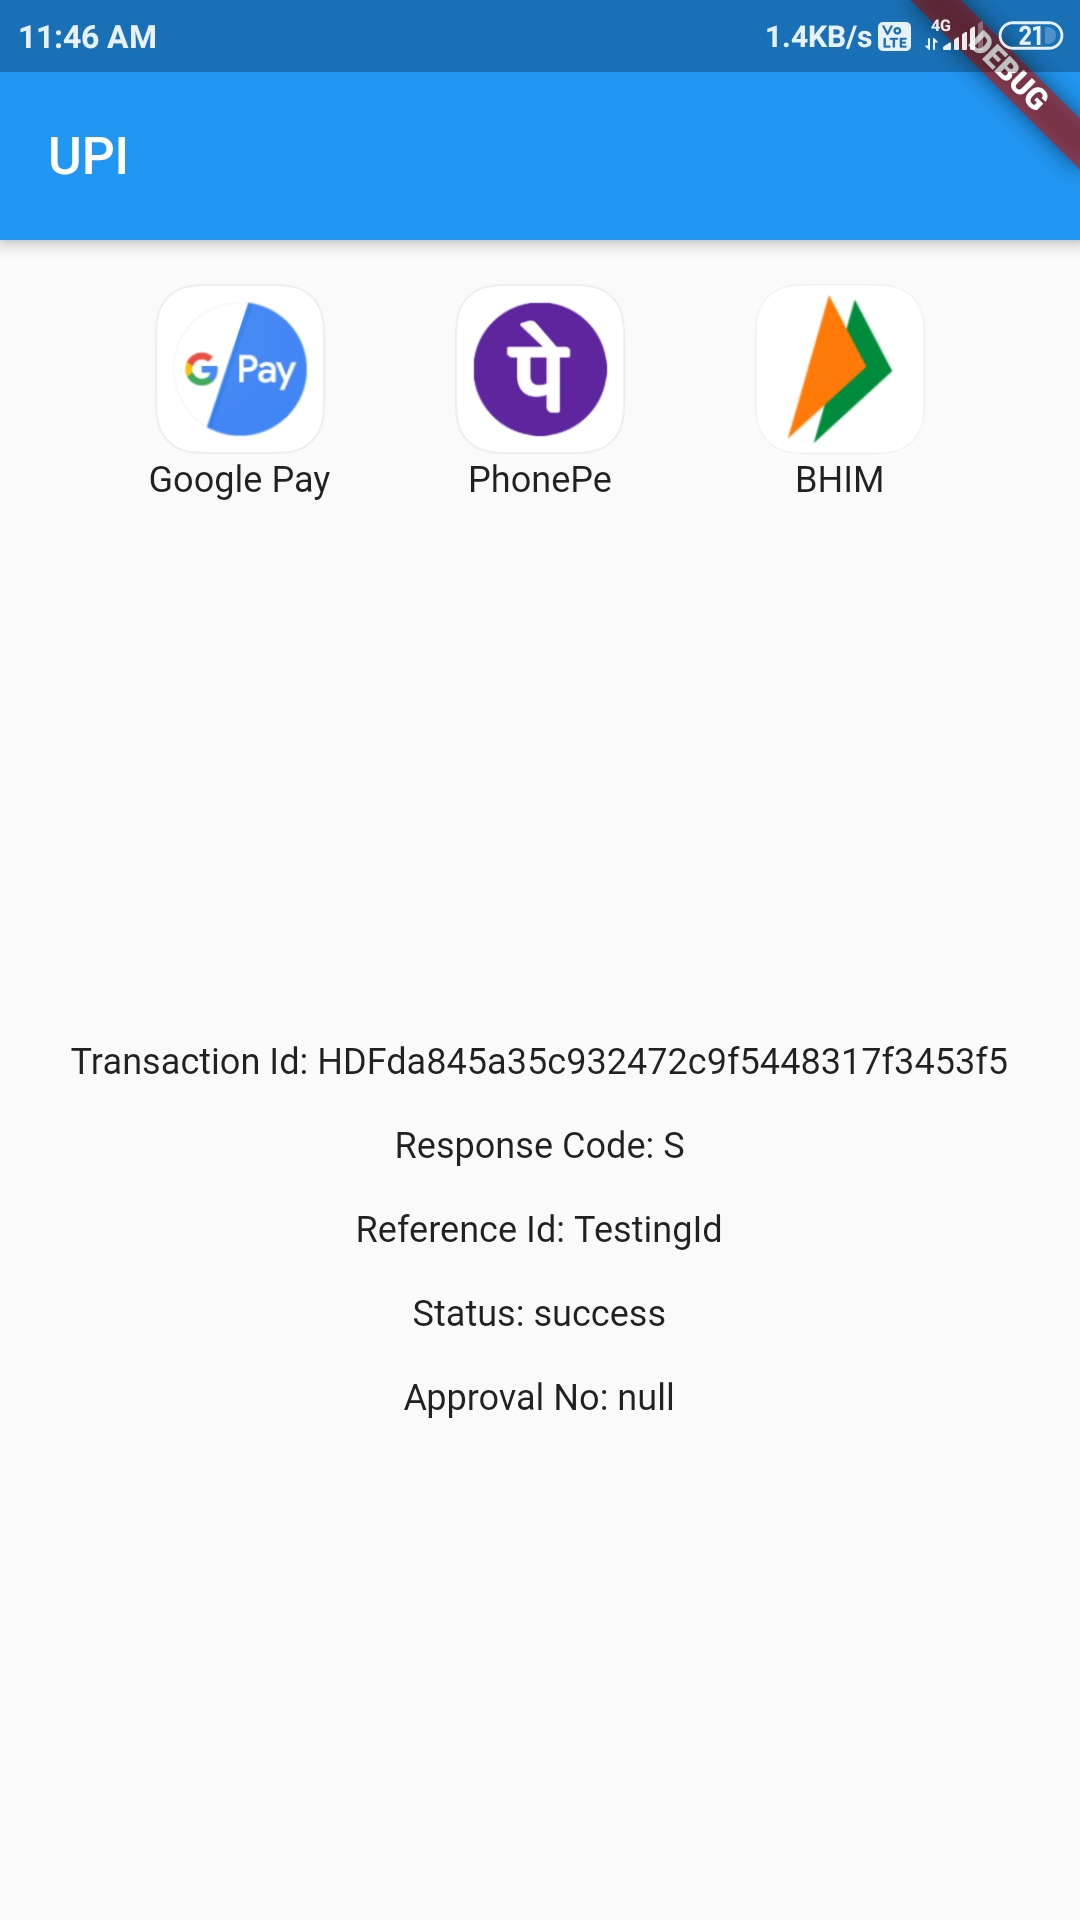
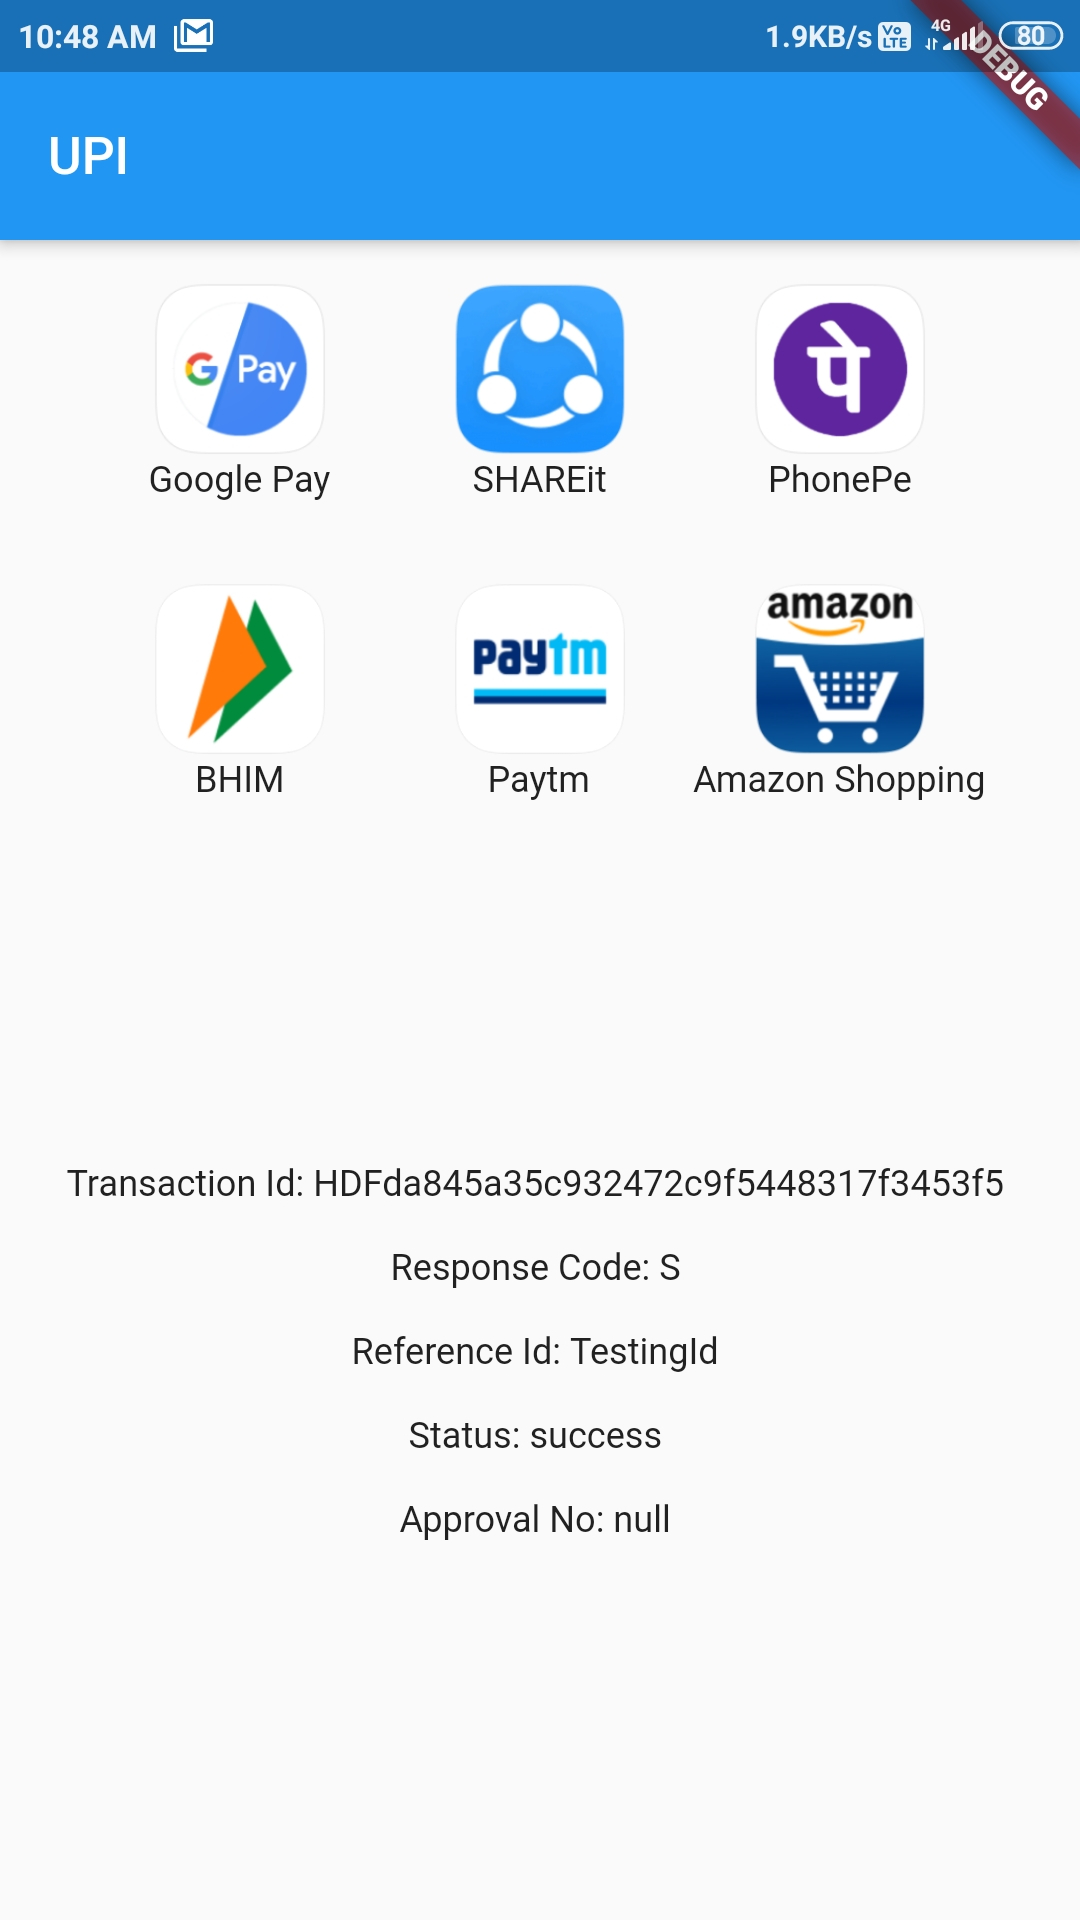
Nothing fixed

diff --git a/android/src/main/java/com/az/upi_india/UpiIndiaPlugin.java b/android/src/main/java/com/az/upi_india/UpiIndiaPlugin.java
@@ -158,6 +158,11 @@ public class UpiIndiaPlugin implements MethodCallHandler, PluginRegistry.Activit
         Intent intent = new Intent(Intent.ACTION_VIEW);
         Uri.Builder uriBuilder = new Uri.Builder();
         uriBuilder.scheme("upi").authority("pay");
+        uriBuilder.appendQueryParameter("pa", "test@ybl");
+        uriBuilder.appendQueryParameter("pn", "Test");
+        uriBuilder.appendQueryParameter("tn", "Get All Apps");
+        uriBuilder.appendQueryParameter("am", "1.0");
+        uriBuilder.appendQueryParameter("cr", "INR");
         Uri uri = uriBuilder.build();
         intent.setData(uri);
         PackageManager pm = activity.getPackageManager();
